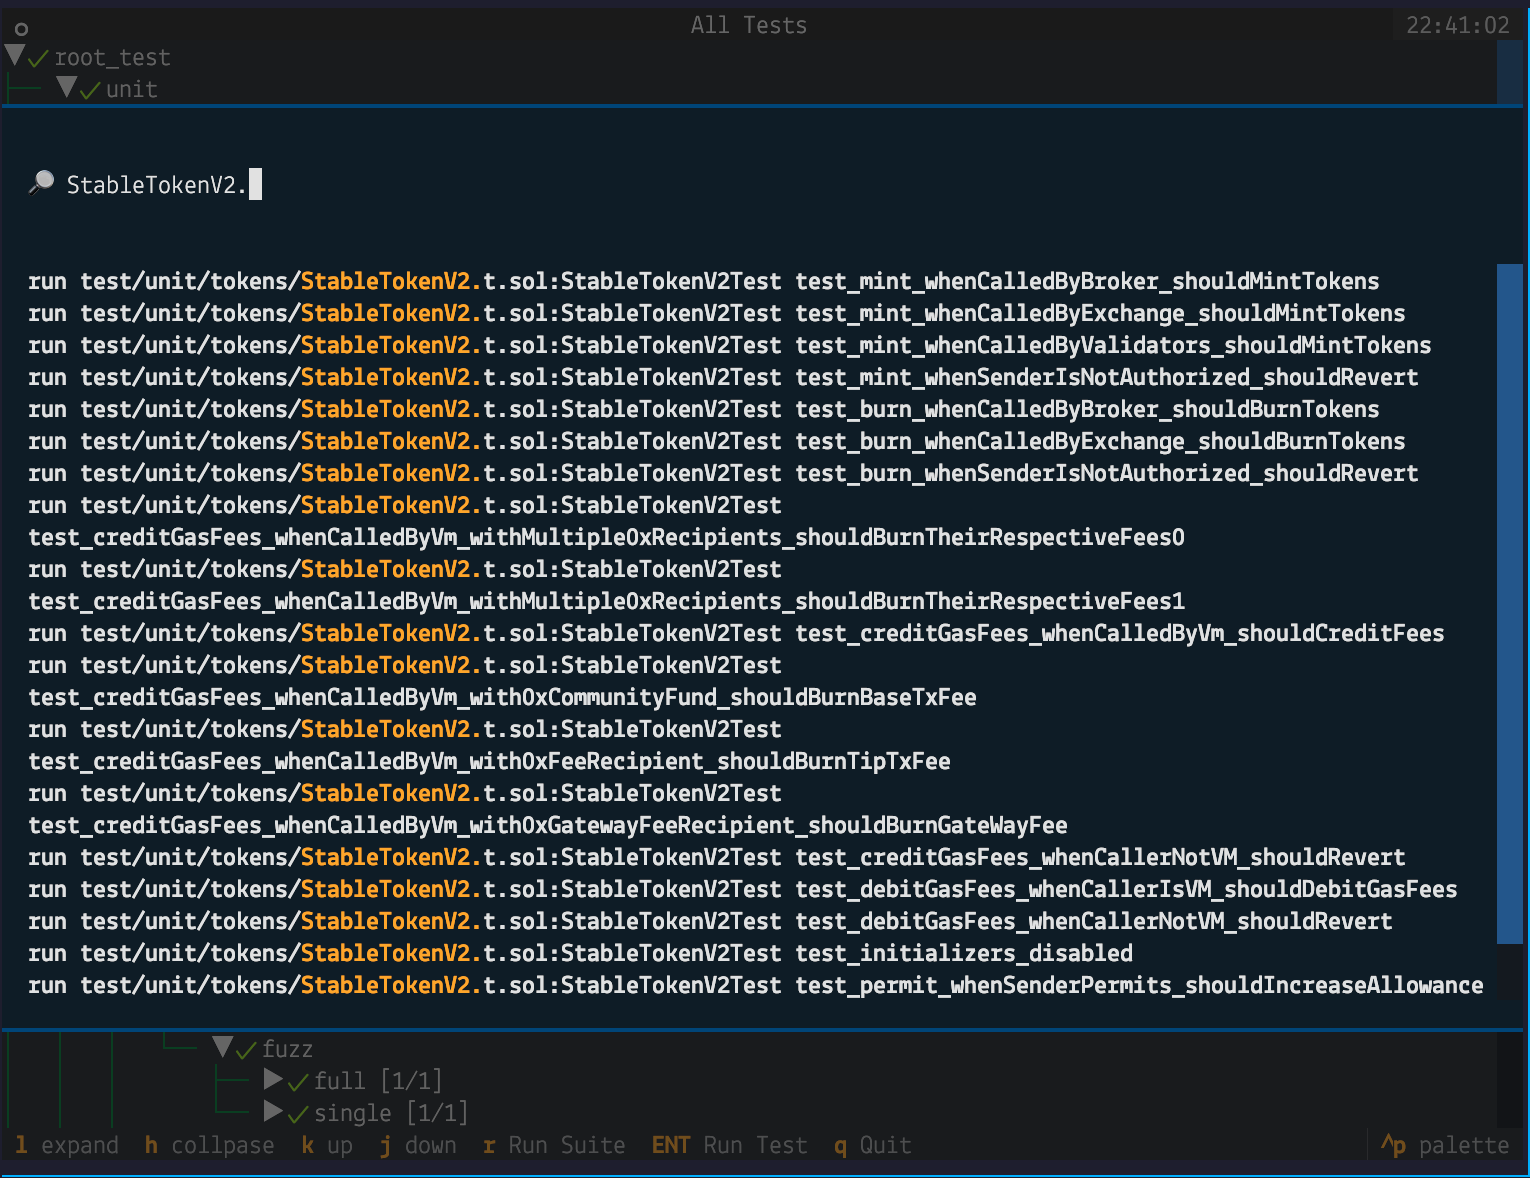
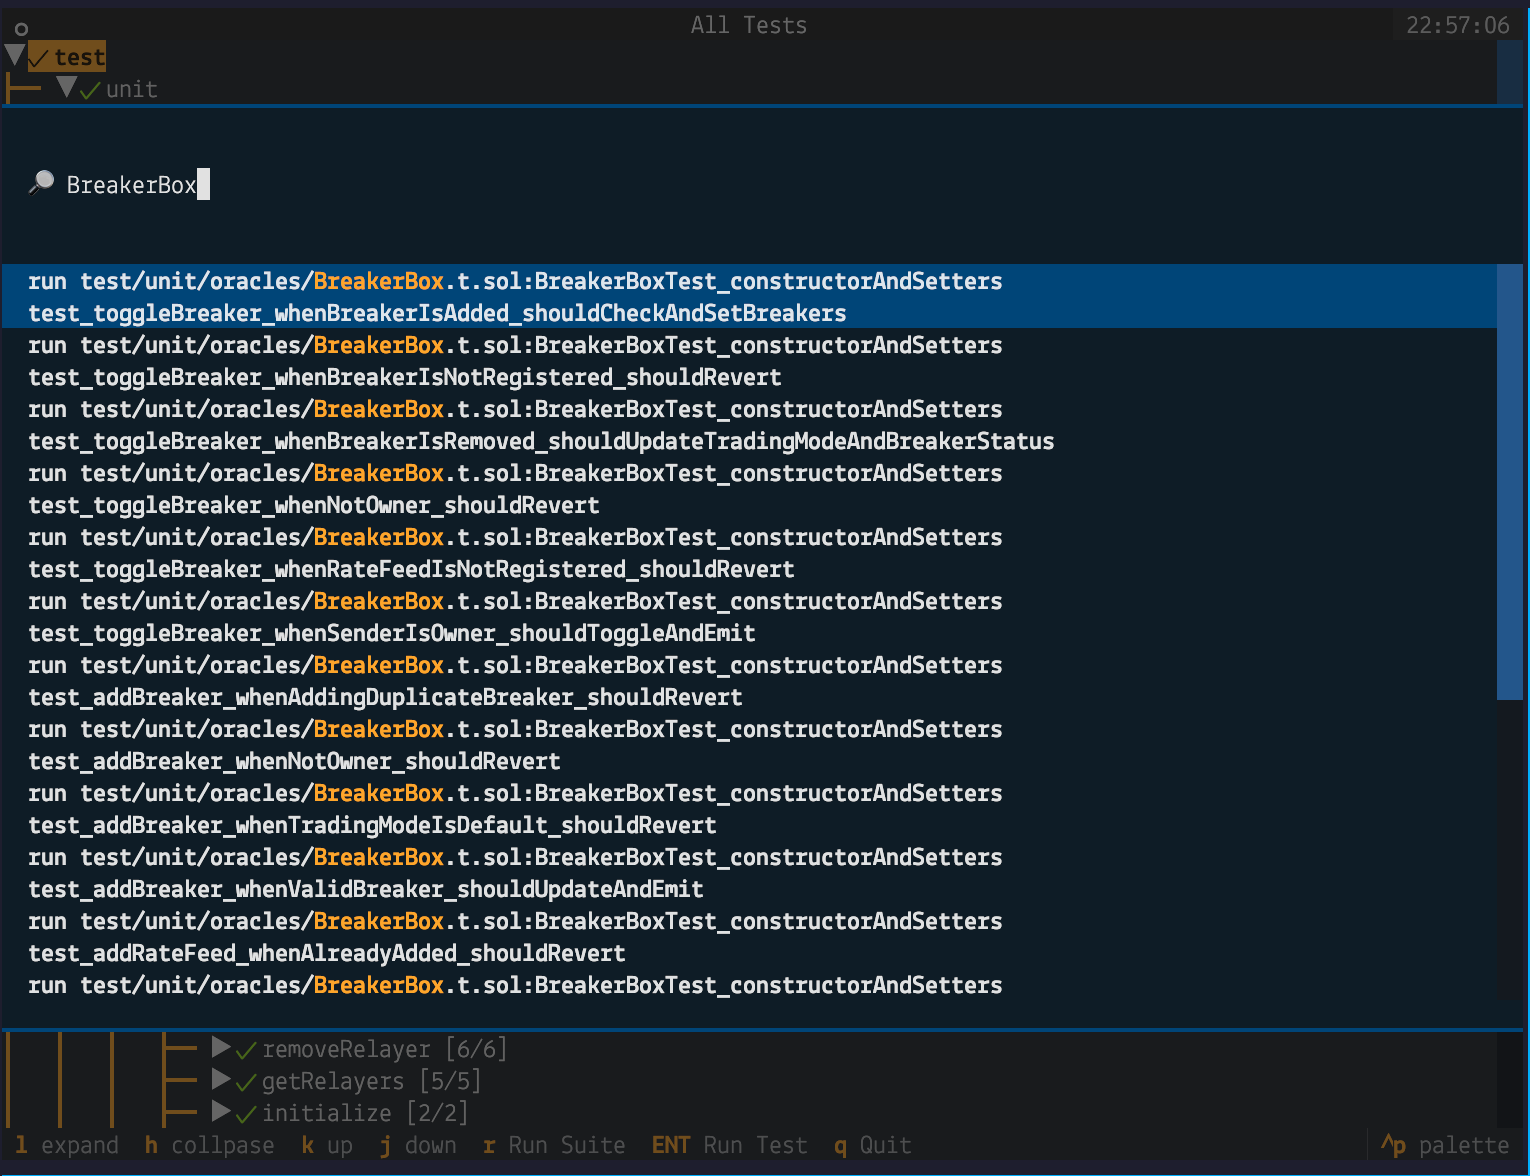
fix: screenshots and feature

Changed region(s): [[0.0, 0.2143, 1.0, 1.0], [0.0307, 0.1224, 0.1843, 0.1837], [0.0, 0.0306, 0.0922, 0.0918]]

diff --git a/crucible/data/suite_tree.py b/crucible/data/suite_tree.py
@@ -67,12 +67,12 @@ class SuitePathNode(SuiteTreeNode):
     def merge_up(self, child):
         merged_node = None
         if isinstance(child, SuitePathNode):
-            merged_node = SuitePathNode(f"{self.__id__}_{child.__id__}")
+            merged_node = SuitePathNode(f"{self.__id__}/{child.__id__}")
             merged_node.tree = self.tree
             merged_node.add_children_from_node(child)
         elif isinstance(child, SuiteNode):
             merged_node = SuiteNode(
-                f"{self.__id__}_{child.__id__}", child.suite)
+                f"{self.__id__}/{child.__id__}", child.suite)
             merged_node.tree = self.tree
             merged_node.add_children_from_node(child)
         return merged_node
@@ -93,10 +93,10 @@ class TestPathNode(SuiteTreeNode):
         merged_node = None
         if isinstance(child, TestPathNode):
             merged_node = TestPathNode(
-                f"{self.__id__}_{child.__id__}", self.suite)
+                f"{self.__id__}/{child.__id__}", self.suite)
         elif isinstance(child, TestNode):
             merged_node = TestNode(
-                f"{self.__id__}_{child.__id__}", child.test, child.suite)
+                f"{self.__id__}/{child.__id__}", child.test, child.suite)
         if merged_node:
             merged_node.tree = self.tree
             merged_node.add_children_from_node(child)
@@ -185,7 +185,6 @@ class SuiteTree(ShadowTree):
 
     def __add_suite__(self, suite):
         path = re.split(r"[:/_]", suite.contract)
-        path = list(filter(lambda x: not x.endswith(".sol"), path))
         suite_label = path.pop()
         current_node = self.root
         for segment in path:
